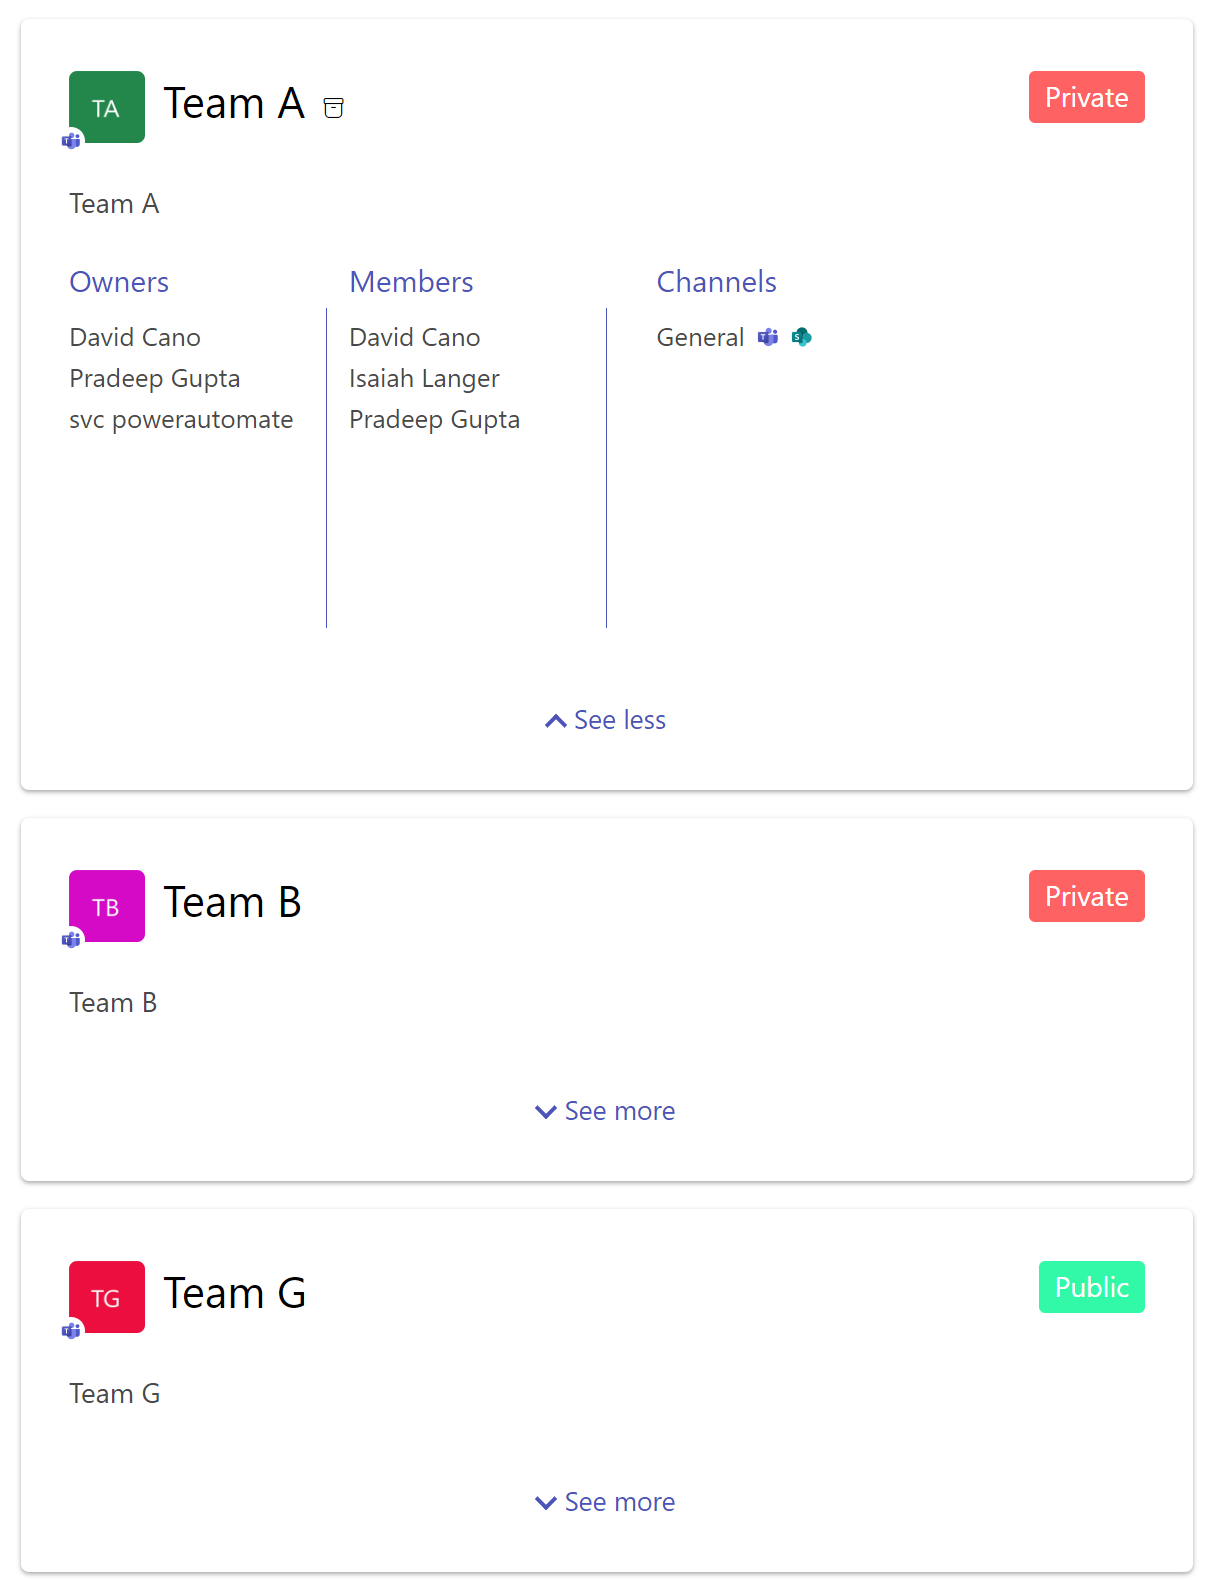
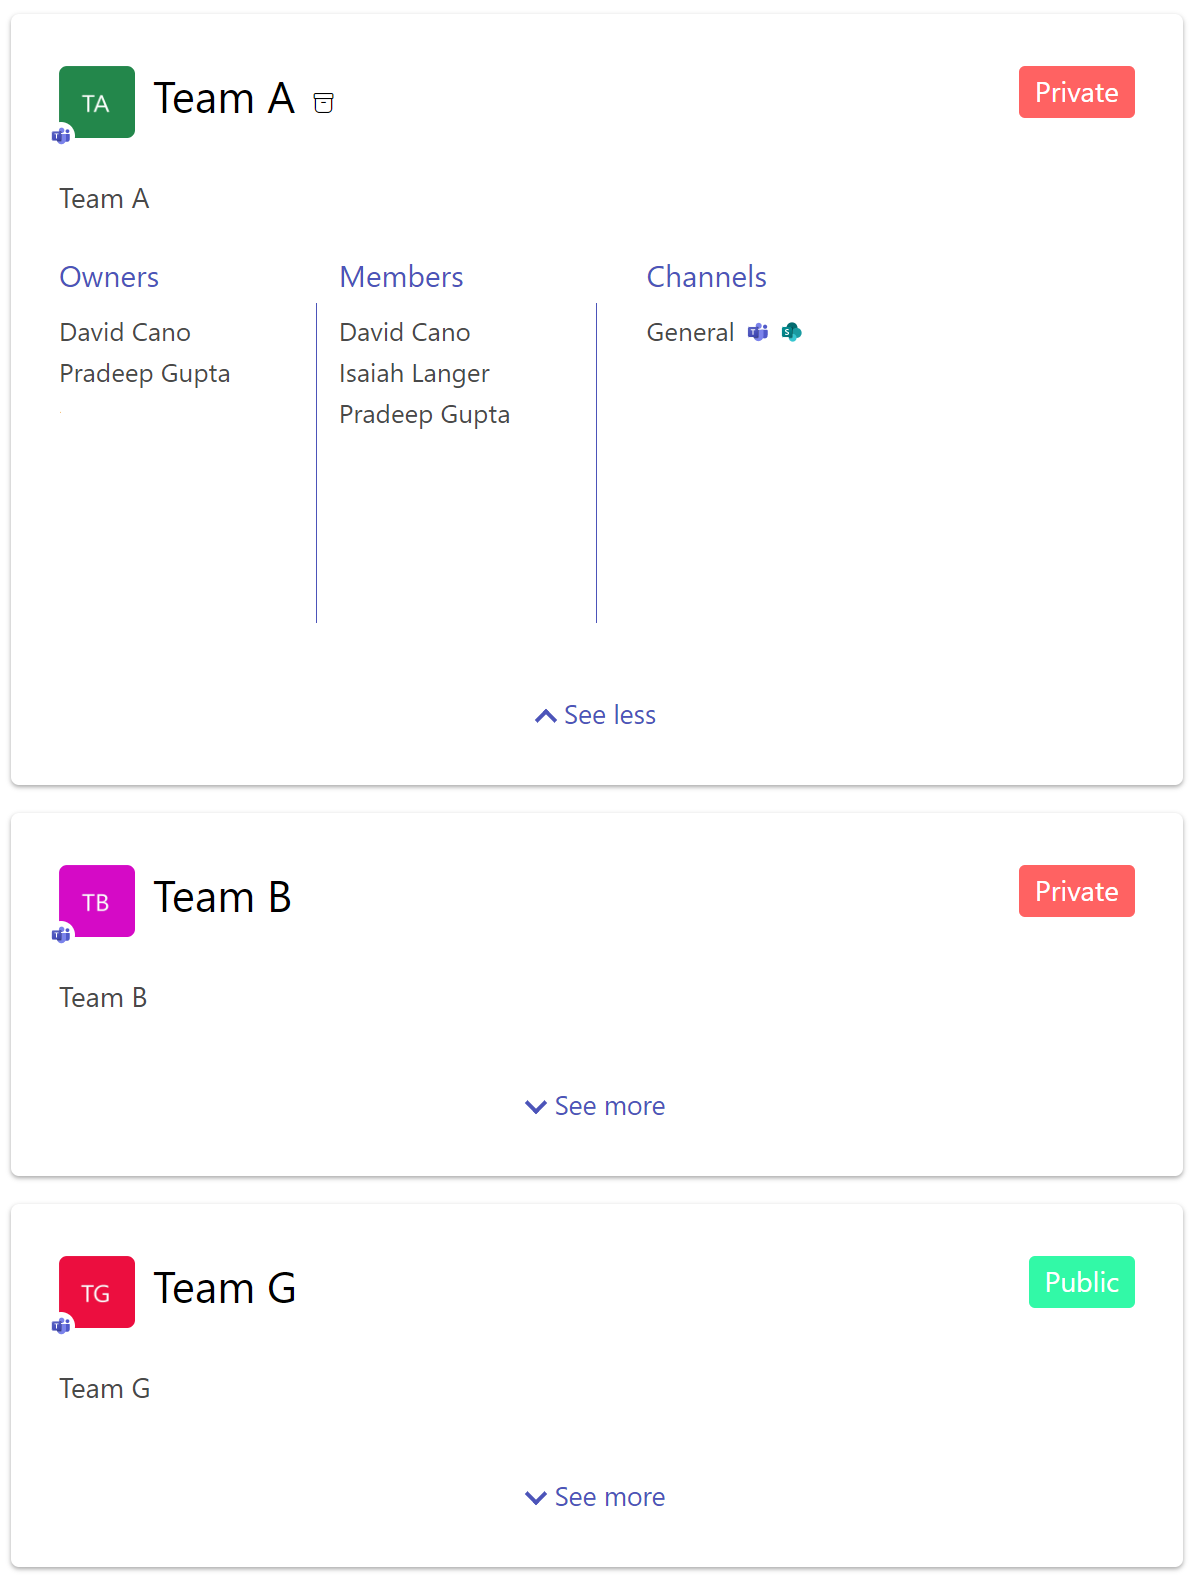
Display teams layouts image with a width of 547px and delete svc account from image

diff --git a/docs/assets/extra.css b/docs/assets/extra.css
@@ -24,3 +24,7 @@
 .icon {
     width: 10px;
 }
+
+.img-width {
+    width: 547px;
+}

diff --git a/docs/usage/data-visualizer/layouts/teams.md b/docs/usage/data-visualizer/layouts/teams.md
@@ -1,6 +1,6 @@
 The **Teams** layout can be used to display information about Microsoft Teams teams and Microsoft 365 groups:
 
-!["Teams Layout - Overview"](../../../assets/webparts/data_visualizer/layouts/teams/teams_layout.png){: .center}
+!["Teams Layout - Overview"](../../../assets/webparts/data_visualizer/layouts/teams/teams_layout.png){: .center .img-width}
 
 | Setting | Description | Default value 
 | ------- |---------------- | ---------- |
@@ -87,4 +87,4 @@ This layout uses the following data source slots by defaut:
 
 This layout displays now the information about archive status of a Team. The information is visible with this icon !["Teams Layout - Archive icon"](../../../assets/webparts/data_visualizer/layouts/teams/archive.png){: .icon}
 
-!["Teams Layout - Archive status"](../../../assets/webparts/data_visualizer/layouts/teams/teams_layout_archived.png){: .center}
+!["Teams Layout - Archive status"](../../../assets/webparts/data_visualizer/layouts/teams/teams_layout_archived.png){: .center .img-width}
